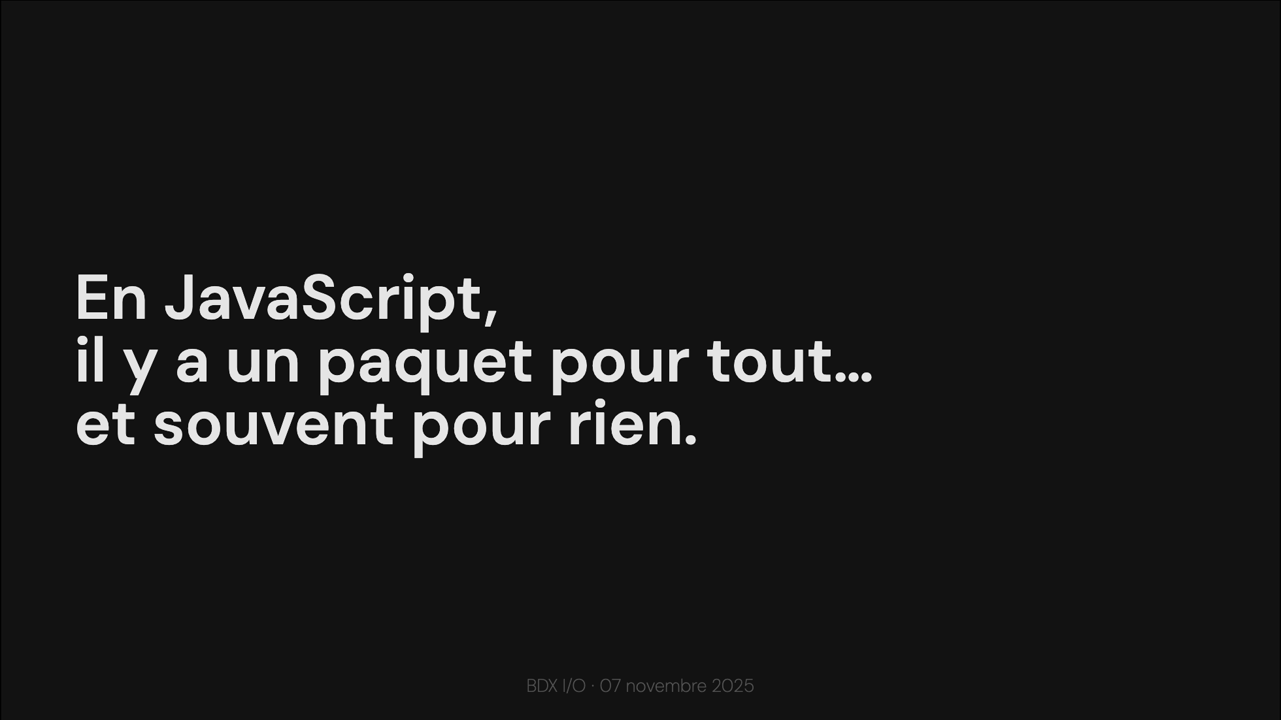
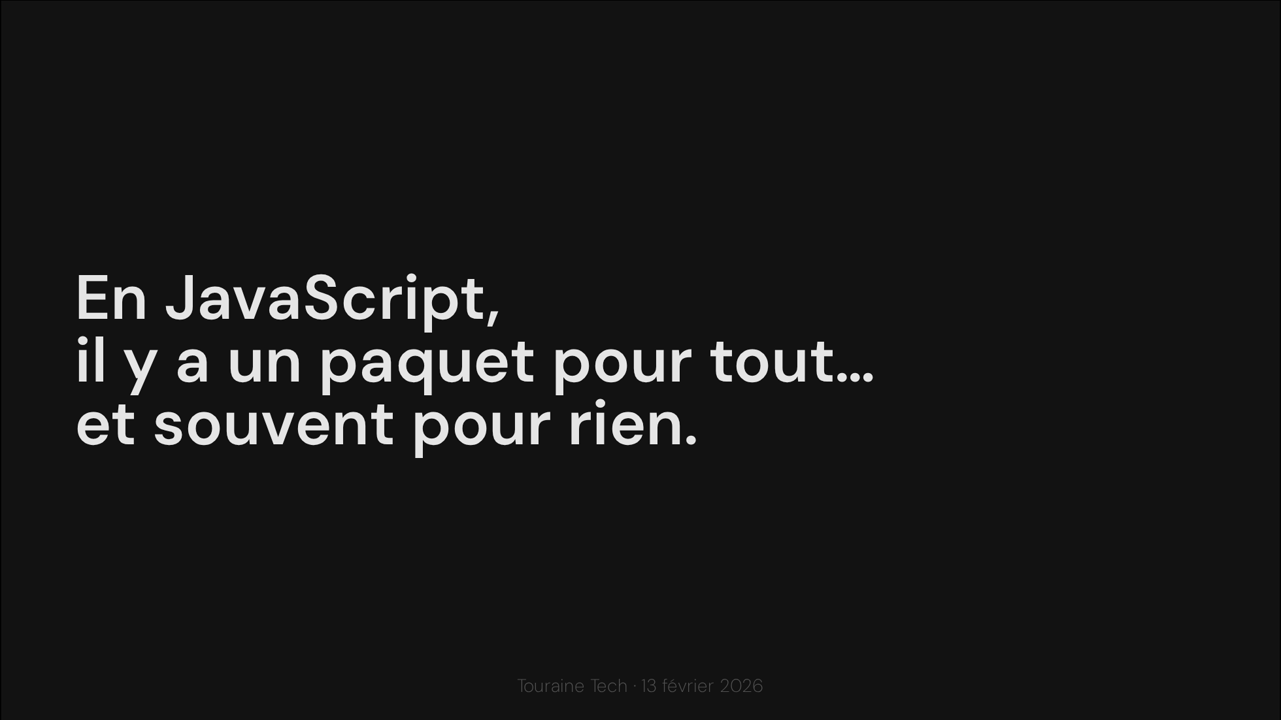
content: finish

diff --git a/README.md b/README.md
@@ -6,6 +6,8 @@ Slides from my [talks](https://soubiran.dev/talks).
 
 ### 2026
 
+- `fr` [En JavaScript, il y a un paquet pour tout... et souvent pour rien.](./2026-02-13) - Touraine Tech
+- `fr` [La réactivité et les signaux : démystifions la magie du frontend](./2026-02-12) - Touraine Tech
 - `fr` [Inertia: Un Anneau pour les gouverner tous.](./2026-01-22) - Vue.js Paris
 
 ### 2025
@@ -47,6 +49,8 @@ Slides from my [talks](https://soubiran.dev/talks).
 <summary>Copy talks list as text</summary>
 
 ```
+2026-02-13 - En JavaScript, il y a un paquet pour tout... et souvent pour rien. - Touraine Tech - Tours, France
+2026-02-12 - La réactivité et les signaux : démystifions la magie du frontend - Touraine Tech - Tours, France
 2026-01-22 - Inertia: Un Anneau pour les gouverner tous. - Vue.js Paris - Paris, France
 2025-12-09 - En JavaScript, il y a un paquet pour tout... et souvent pour rien. - Paris TypeScript - Paris, France
 2025-12-05 - La réactivité et les signaux : démystifions la magie du frontend - DevFest Dijon - Dijon, France
@@ -84,11 +88,11 @@ Slides from my [talks](https://soubiran.dev/talks).
 
 | Year | Number of Talks |
 |------|-----------------|
-| 2026 | 1 |
+| 2026 | 3 |
 | 2025 | 19 |
 | 2024 | 6 |
 | 2023 | 1 |
-| **Total** | **27** |
+| **Total** | **29** |
 
 ### Talks per Event
 
@@ -108,6 +112,7 @@ Slides from my [talks](https://soubiran.dev/talks).
 | PragVue | 1 | 0 | 0 | 1 | 0 |
 | StrasbourgJS | 2 | 0 | 1 | 1 | 0 |
 | TakiMeet | 1 | 0 | 0 | 1 | 0 |
+| Touraine Tech | 2 | 2 | 0 | 0 | 0 |
 | Vue.js Paris | 2 | 1 | 0 | 1 | 0 |
 
 ### Talks by Title
@@ -116,11 +121,11 @@ Slides from my [talks](https://soubiran.dev/talks).
 |------------|-------|------|------|------|------|
 | Découvrons ensemble l'écosystème UnJS | 1 | 0 | 0 | 1 | 0 |
 | Deviens full-stack avec TypeScript | 1 | 0 | 1 | 0 | 0 |
-| En JavaScript, il y a un paquet pour tout... et souvent pour rien. | 6 | 0 | 6 | 0 | 0 |
+| En JavaScript, il y a un paquet pour tout... et souvent pour rien. | 7 | 1 | 6 | 0 | 0 |
 | Fluidifier l'expérience utilisateur | 1 | 0 | 0 | 1 | 0 |
 | Inertia: Un Anneau pour les gouverner tous | 2 | 0 | 2 | 0 | 0 |
 | Inertia: Un Anneau pour les gouverner tous. | 1 | 1 | 0 | 0 | 0 |
-| La réactivité et les signaux : démystifions la magie du frontend | 8 | 0 | 8 | 0 | 0 |
+| La réactivité et les signaux : démystifions la magie du frontend | 9 | 1 | 8 | 0 | 0 |
 | Nuxt, NuxtHub et le full-stack | 1 | 0 | 0 | 1 | 0 |
 | Ship Nuxt apps that scale | 2 | 0 | 1 | 1 | 0 |
 | Unifié et Universel, le JavaScript avec UnJS | 1 | 0 | 0 | 1 | 0 |

diff --git a/2026-02-12/src/slides.md b/2026-02-12/src/slides.md
@@ -33,8 +33,12 @@ layout: inalia-overview
 name: Quel framework pour le frontend ?
 ---
 
-<Inalia :questionId="1" />
-
+<Inalia
+  question="Quel framework pour le frontend ?"
+  type="multiple_select"
+  chart="bar"
+  :data="[{ label: 'Vue', count: 16, color: '#24E148' }, { label: 'Angular', count: 29, color: '#CE3FC3' }, { label: 'React', count: 15, color: '#3FD7E0' }, { label: 'Svelte', count: 3, color: '#E79A1E' }, { label: 'Solid', count: 2, color: '#5B20D0' }, { label: 'Qwik', count: 0, color: '#F32BC4' }, { label: 'Aucun', count: 2, color: '#000000' }, { label: 'Un autre', count: 2, color: '#E1E72F' }]"
+/>
 <!--
 
 Profiter de la question pour évoquer que chaque framework a une manière différente de gérer la réactivité et aujourd'hui, on va en voir une mais qui est celle vers laquelle les frameworks tendent. Même Angular fait des signaux.
@@ -207,7 +211,12 @@ Présenter la slide.
 name: Vous suivez encore ? 🫣
 ---
 
-<Inalia :questionId="2" />
+<Inalia
+  question="Vous suivez encore ? 🫣"
+  type="single_select"
+  chart="donut"
+  :data="[{ label: 'Oui, évidemment', count: 27, color: '#09EE34' }, { label: 'Oui, enfin je crois', count: 12, color: '#6abfac' }, { label: 'Non, là c\'est trop 🤯', count: 1, color: '#D0452B' }]"
+/>
 
 <!--
 

diff --git a/2026-02-13/src/slides.md b/2026-02-13/src/slides.md
@@ -51,7 +51,12 @@ name: Qui a déjà installé `is-string` ?
 transition: slide-up
 ---
 
-<Inalia :questionId="1" />
+<Inalia
+  question="Qui a déjà installé is-string ?"
+  type="single_select"
+  chart="donut"
+  :data="[{ label: 'Oui', count: 2, color: '#6abfac' }, { label: 'Non', count: 16, color: '#BF6A6A' }]"
+/>
 
 <!--
 
